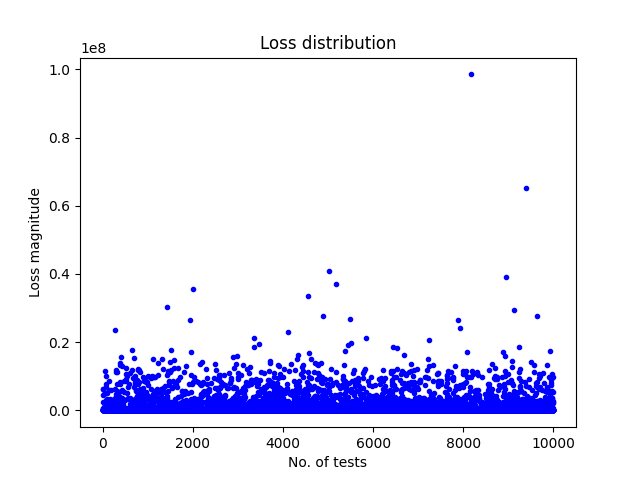
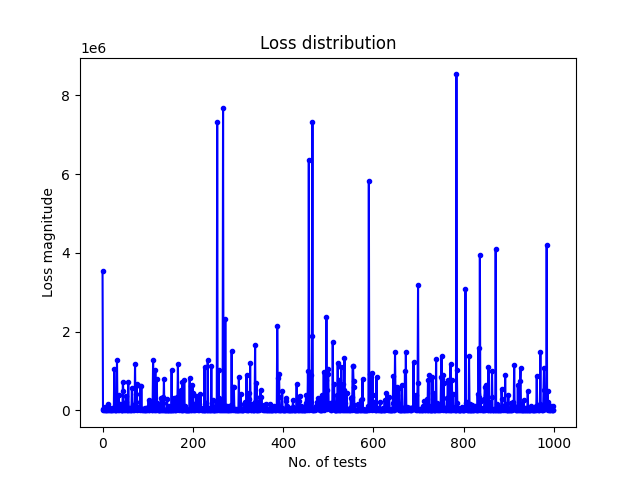
many fixes

diff --git a/distros/cyberrisk_sim_multi.py b/distros/cyberrisk_sim_multi.py
@@ -20,38 +20,38 @@
 
 # list of security events [probability, lower bound loss, upper bound loss, description]
 events = {
-    "event1": (0.07, 100000, 400000, "Successful DDoS on the cloud base core app"),
-    "event2": (0.05, 500000, 1500000, "Sensitive data exfiltration"),
+    "event1": (0.11, 100000, 400000, "Successful DDoS on the cloud base core app"),
+    "event2": (0.08, 500000, 1500000, "Sensitive data exfiltration"),
     "event3": (0.03, 200000, 1000000, "Malicious code injected into production pipeline"),
     "event4": (0.2, 10000, 100000, "Laptop with sensitive data lost/stolen"),
     "event5": (0.12, 15000, 50000, "Malicious code in 3rd party dependencies"),
     "event6": (0.15, 1000, 150000, "Broken backups"),
-    "event7": (0.005, 1000000, 12000000, "Malware attack, knocked out internal network"),
-    "event8": (0.03, 10000, 500000, "Insider's threat"),
+    "event7": (0.01, 1000000, 12000000, "Malware attack, knocked out internal network"),
+    "event8": (0.05, 10000, 500000, "Insider's threat"),
     "event9": (0.01, 100000, 500000, "Terrorist attack"),
     "event10": (0.25, 5000, 50000, "Broken app release")
 }
 
 # list of mitigating security controls [annual cost, with impact on event probability reduction]
 sec_controls = {
-    "event1": (100000, 0.65),
-    "event2": (200000, 0.95),
-    "event3": (250000, 0.9),
-    "event4": (30000, 0.8),
+    "event1": (70000, 0.65),
+    "event2": (200000, 0.55),
+    "event3": (250000, 0.7),
+    "event4": (30000, 0.7),
     "event5": (25000, 0.4),
     "event6": (100000, 0.9),
     "event7": (800000, 0.85),
     "event8": (250000, 0.5),
-    "event9": (300000, 0.7),
-    "event10": (25000, 0.75)
+    "event9": (300000, 0.6),
+    "event10": (25000, 0.45)
 }
 
 # defined risk tolerance
 risk_tolerance = [
     (100000, 90), 
-    (250000, 70), 
-    (500000, 30), 
-    (750000, 10), 
+    (250000, 80), 
+    (500000, 40), 
+    (750000, 15), 
     (1000000, 2), 
     (10000000, 0.1)
 ]
@@ -59,99 +59,92 @@ risk_tolerance = [
 # simulation parameters
 
 STEP = 5000
-NO_SIMULATIONS = 10000
+NO_SIMULATIONS = 1000
+
 
 ### computing functions
 
 import matplotlib.pyplot as plt
+import pandas as pd
 import numpy as np
 
-def threat_event_happened(event_p):
-    return np.random.rand() < event_p
+def threat_event_happened(event_p, reduct_p):
+    return np.random.rand() < event_p*(1-reduct_p)
 
 def threat_event_loss(lower_bnd, upper_bnd):
     mean = (np.log(lower_bnd) + np.log(upper_bnd))/2
     std_deviation = (np.log(upper_bnd) - np.log(lower_bnd))/3.29
-    return float(np.random.lognormal(mean, std_deviation))
-
-def threat_event_comp_by_sec(event_p, ctrl_reduct):
-    p_reduced = threat_event_happened(
-        event_p)*(1-ctrl_reduct)
-    return p_reduced
+    return round(float(np.random.lognormal(mean, std_deviation)),2)
 
 def loss_distribution(events_dict, no_of_simulations):
     i = 0
+    event_keys = []
     events_keys = events_dict.keys()
     sim_list = []
     for i in range(no_of_simulations):
         rnd_list = []
         loss_sum = 0
         for key in events_keys:
-            if threat_event_happened(events_dict[key][0]):
-                threat_loss = threat_event_loss(events_dict[key][1], events_dict[key][2])
-                rnd_list.append("{:.2f}".format(threat_loss))
+            if threat_event_happened(events_dict[key][0],0):
+                event_loss = threat_event_loss(events_dict[key][1], events_dict[key][2])
             else:
-                threat_loss = 0
-                rnd_list.append(threat_loss)
-            for event_loss in range(len(rnd_list)):
-                loss_sum += float(rnd_list[event_loss])
+                event_loss = 0
+            rnd_list.append("{:.2f}".format(event_loss))
+        for each_loss in range(len(rnd_list)):
+            loss_sum += float(rnd_list[each_loss])
         sim_list.append(round(loss_sum, 2))
     return sim_list # return a list of lists for each test for all events.
 
 def loss_distribution_reduced(events_dict, controls_dict, no_of_simulations):
     i = 0
+    events_keys = []
     events_keys = events_dict.keys()
     sim_list = []
     for i in range(no_of_simulations):
         rnd_list = []
         loss_sum = 0
         for key in events_keys:
-            if threat_event_comp_by_sec(events_dict[key][0],controls_dict[key][1]) > 0:
-                threat_loss = round(threat_event_loss(events_dict[key][1], events_dict[key][2]),2)
-                rnd_list.append("{:.2f}".format(threat_loss))
+            if threat_event_happened(events_dict[key][0],controls_dict[key][1]):
+                event_loss = threat_event_loss(events_dict[key][1], events_dict[key][2])
             else:
-                threat_loss = 0
-                rnd_list.append(threat_loss)
-            for event_loss in range(len(rnd_list)):
-                loss_sum += float(rnd_list[event_loss])
+                event_loss = 0
+            rnd_list.append("{:.2f}".format(event_loss))
+        for each_loss in range(len(rnd_list)):
+            loss_sum += float(rnd_list[each_loss])
         sim_list.append(round(loss_sum,2))
     return sim_list # return a list of lists for each test for all events.
 
-def loss_average(sim_lst):
-    x = 0
+def loss_average(lst):
     accu = 0
-    losses = list(map(float, sim_lst))
-    for loss in losses:
-        if loss > 0:
-            accu += loss
-            x += 1
-    loss_ave = round(accu/x, 2)
+    for loss in lst:
+        accu += loss
+    loss_ave = round(accu/len(lst), 2)
     return loss_ave
 
-def draw_loss_distribution(sim_lst, fig_name):
-    x = 0
-    losses = list(map(float, sim_lst))
-    fig, ax = plt.subplots()
-    for loss in losses:
-        ax.plot(x, loss,  **{'color': 'blue', 'marker': '.'})
-        x += 1
+def draw_loss_distribution(lst, fig_name):
+    ax = 0
+    losses_series = 0
+    losses_series = pd.Series(lst)
+    ax = losses_series.plot(**{'color': 'blue', 'marker': '.'})
     ax.set_xlabel('No. of tests')
     ax.set_ylabel('Loss magnitude')
     ax.set_title('Loss distribution')
-    return fig.savefig(fig_name)
+    ax.figure.savefig(fig_name)
+    ax.cla()
+    plt.close()
 
-def loss_exceedance_curve(sim_lst, STEP):
+
+def loss_exceedance_curve(lst, STEP):
     loss_ex_lst = []
-    losses = list(map(float, sim_lst))
     losses_count = 0
-    for loss in losses:
-        if loss > 0: losses_count += 1
+#    for loss in lst:
+#        if loss > 0: losses_count += 1
     for x in range(0,5000000,STEP):
         accu = 0
-        for loss in losses:
+        for loss in lst:
             if loss > 0 and loss > x: 
                 accu += 1
-        loss_ex_lst.append([x,round(accu/losses_count,2)*100])
+        loss_ex_lst.append([x,round(accu/len(lst),2)*100])
     return loss_ex_lst
 
 def draw_loss_exceedance(lst, lst_for_risk_tolerance, fig_name):
@@ -167,25 +160,25 @@ def draw_loss_exceedance(lst, lst_for_risk_tolerance, fig_name):
     ax.set_xlabel('Loss magnitude in EUR [log]')
     ax.set_ylabel('P(loss exceeded) in %')
     ax.set_title('Loss exceedance curve')
-    return fig.savefig(fig_name)
+    fig.savefig(fig_name)
+    fig.clear()
 
-# let's rooooock (cit. Vasquez on LV-426):
-
+# run
 
 losses_no_ctrls = loss_distribution(events, NO_SIMULATIONS)
 losses_with_ctrls = loss_distribution_reduced(events, sec_controls, NO_SIMULATIONS)
 
 # draw loss distribution without security controls in place
-draw_loss_distribution(losses_no_ctrls, "fig-1.png")
+draw_loss_distribution(losses_no_ctrls, 'Fig-1.png')
 
 # draw loss distribution with security controls in place
-draw_loss_distribution(losses_with_ctrls, "fig-2.png")
+draw_loss_distribution(losses_with_ctrls, 'Fig-2.png')
 
 print("Average loss: {:,.2f} EUR with no controls in place".format(loss_average(losses_no_ctrls)))
 print("Average loss: {:,.2f} EUR with controls in place".format(loss_average(losses_with_ctrls)))
 
 # draw loss esceedance curve without security controls in place
-draw_loss_exceedance(loss_exceedance_curve(losses_no_ctrls, STEP), risk_tolerance, "fig-3.png")
+draw_loss_exceedance(loss_exceedance_curve(losses_no_ctrls, STEP), risk_tolerance, "Fig-3.png")
 
 # draw loss esceedance curve with security controls in place
-draw_loss_exceedance(loss_exceedance_curve(losses_with_ctrls, STEP), risk_tolerance, "fig-4.png")
+draw_loss_exceedance(loss_exceedance_curve(losses_with_ctrls, STEP), risk_tolerance, "Fig-4.png")
